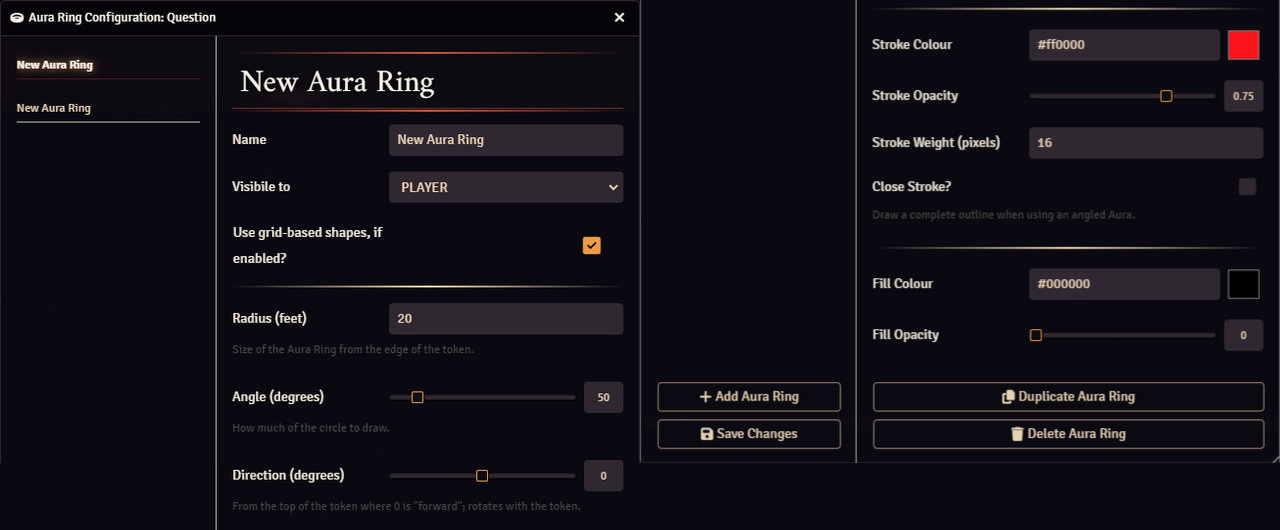
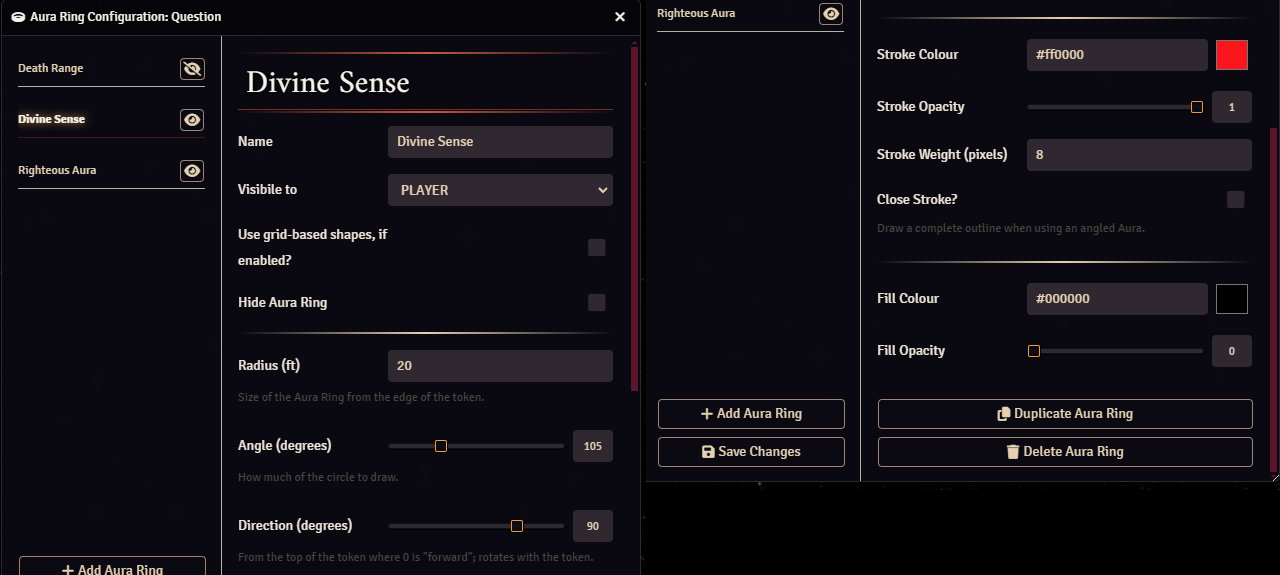
Added show/hide aura button

diff --git a/AuraRingFormApplication.js b/AuraRingFormApplication.js
@@ -12,10 +12,11 @@ export class AuraRingFormApplication extends HandlebarsApplicationMixin(Applicat
             changeTab: AuraRingFormApplication.handleChangeTab,
             deleteAuraRing: AuraRingFormApplication.handleDeleteAuraRing,
             duplicateAuraRing: AuraRingFormApplication.handleDuplicateAuraRing,
+            toggleHide: AuraRingFormApplication.handleToggleHide,
         },
         form: {
             handler: AuraRingFormApplication.handleForm,
-            submitOnChange: false, // Could be useful for live updates?
+            submitOnChange: false,
             closeOnSubmit: true,
         },
         id: `${AuraRingFlags.namespace}-{id}`,
@@ -43,7 +44,7 @@ export class AuraRingFormApplication extends HandlebarsApplicationMixin(Applicat
 
     auraRings = [];
 
-    currentTab = null;
+    currentTab = 0;
 
     preview;
 
@@ -84,8 +85,14 @@ export class AuraRingFormApplication extends HandlebarsApplicationMixin(Applicat
         }
 
         const dataModels = [];
+
         for (const auraRing of auraRings) {
-            dataModels.push(new AuraRingDataModel(auraRing));
+            try {
+                dataModels.push(new AuraRingDataModel(auraRing));
+            } catch (error) {
+                console.error('A malformed Aura Ring was detected; removing.');
+                this.deleteAuraRing(auraRing.id);
+            }
         }
 
         return {
@@ -94,24 +101,27 @@ export class AuraRingFormApplication extends HandlebarsApplicationMixin(Applicat
     }
 
     // Handlers
-    static async handleAddAuraRing(event, target)
+    static async handleAddAuraRing()
     {
         this.addAuraRing();
     }
 
-    static async handleChangeTab(event, target)
+    static async handleChangeTab(event)
     {
-        this.changeTab(target.dataset.tab);
+        const auraId = parseInt(event.target.dataset.aura);
+        this.changeTab(auraId);
     }
 
-    static async handleDeleteAuraRing(event, target)
+    static async handleDeleteAuraRing(event)
     {
-        this.confirmDelete(target.dataset.aura);
+        const auraId = parseInt(event.target.dataset.aura);
+        this.confirmDelete(auraId);
     }
 
-    static async handleDuplicateAuraRing(event, target)
+    static async handleDuplicateAuraRing(event)
     {
-        this.duplicateAuraRing(target.dataset.aura);
+        const auraId = parseInt(event.target.dataset.aura);
+        this.duplicateAuraRing(auraId);
     }
 
     static async handleForm(event, form, formData)
@@ -124,7 +134,14 @@ export class AuraRingFormApplication extends HandlebarsApplicationMixin(Applicat
 
     static async handleRenameAuraRing(event)
     {
-        this.renameAuraRing(event.target.dataset.aura, event.target.value);
+        const auraId = parseInt(event.target.dataset.aura);
+        this.renameAuraRing(auraId, event.target.value);
+    }
+
+    static async handleToggleHide(event)
+    {
+        const auraId = parseInt(event.target.dataset.aura);
+        this.toggleHideAuraRing(auraId);
     }
 
     // Aura Rings
@@ -155,7 +172,7 @@ export class AuraRingFormApplication extends HandlebarsApplicationMixin(Applicat
     duplicateAuraRing(id)
     {
         const source = this.getAuraRing(id);
-        const clone = deepClone(source);
+        const clone = foundry.utils.deepClone(source);
 
         clone.id = AuraRingFlags.nextAvailableId(this.auraRings);
         clone.name = `Copy of ${source.name}`;
@@ -194,7 +211,7 @@ export class AuraRingFormApplication extends HandlebarsApplicationMixin(Applicat
         this.render();
     }
 
-    sortAuraRings (first, second) {
+    sortAuraRings(first, second) {
         if (first.name < second.name) {
             return -1;
         }
@@ -204,6 +221,13 @@ export class AuraRingFormApplication extends HandlebarsApplicationMixin(Applicat
         }
 
         return 0;
+    }
+
+    toggleHideAuraRing(id)
+    {
+        const index = this.getAuraRingIndex(id);
+        this.auraRings[index].hide = !this.auraRings[index].hide;
+        this.render();
     }
 
     // Dialogs
@@ -250,14 +274,23 @@ export class AuraRingFormApplication extends HandlebarsApplicationMixin(Applicat
 
     changeTab(target)
     {
+        const articles = document.querySelectorAll('[data-group="auraRingArticles"]');
         const tabs = document.querySelectorAll('[data-group="auraRingTabs"]');
+        
+        const targetId = `${target}`;
 
-        if (typeof target !== 'string') {
-            target = `${target}`;
+        for (const article of articles) {
+            if (article.dataset.aura === targetId) {
+                article.classList.add('active');
+                article.classList.remove('hidden');
+            } else {
+                article.classList.remove('active');
+                article.classList.add('hidden');
+            }
         }
 
         for (const tab of tabs) {
-            tab.dataset.tab === target
+            tab.dataset.aura === targetId
                 ? tab.classList.add('active')
                 : tab.classList.remove('active');
         }
@@ -272,7 +305,9 @@ export class AuraRingFormApplication extends HandlebarsApplicationMixin(Applicat
 
         for (const field in formData.object) {
             const index = field.indexOf('_');
-            const id = field.slice(0, index);
+            const id = parseInt(
+                field.slice(0, index),
+            );
             const key = field.slice(index + 1);
             const value = formData.object[field];
 

diff --git a/AuraRingFlags.js b/AuraRingFlags.js
@@ -7,27 +7,27 @@ export class AuraRingFlags
     static namespace = 'token-aura-ring';
 
     // Flags
-    static getAuraRings(simpleTokenDocument)
+    static getAuraRings(tokenDocument)
     {
-        if (AuraRingFlags.hasAuraRings(simpleTokenDocument) === false) {
-            AuraRingFlags.setAuraRings(simpleTokenDocument, []);
+        if (AuraRingFlags.hasAuraRings(tokenDocument) === false) {
+            AuraRingFlags.setAuraRings(tokenDocument, []);
         }
 
-        return simpleTokenDocument.getFlag(AuraRingFlags.namespace, AuraRingFlags.auraRingsKey);
+        return tokenDocument.getFlag(AuraRingFlags.namespace, AuraRingFlags.auraRingsKey);
     }
 
-    static hasAuraRings(simpleTokenDocument)
+    static hasAuraRings(tokenDocument)
     {
-        if (simpleTokenDocument.flags.hasOwnProperty(AuraRingFlags.namespace) === false) {
+        if (tokenDocument.flags.hasOwnProperty(AuraRingFlags.namespace) === false) {
             return false;
         }
 
-        return simpleTokenDocument.flags[AuraRingFlags.namespace].hasOwnProperty(AuraRingFlags.auraRingsKey) === true;
+        return tokenDocument.flags[AuraRingFlags.namespace].hasOwnProperty(AuraRingFlags.auraRingsKey) === true;
     }
 
-    static setAuraRings(simpleTokenDocument, auraRings)
+    static setAuraRings(tokenDocument, auraRings)
     {
-        simpleTokenDocument.setFlag(AuraRingFlags.namespace, AuraRingFlags.auraRingsKey, auraRings);
+        tokenDocument.setFlag(AuraRingFlags.namespace, AuraRingFlags.auraRingsKey, auraRings);
     }
 
     // Auras
@@ -41,7 +41,7 @@ export class AuraRingFlags
         }
 
         while (potentialId < 100) {
-            if (usedIds.includes(`${potentialId}`) === false) {
+            if (usedIds.includes(potentialId) === false) {
                 return potentialId;
             }
 
@@ -50,20 +50,20 @@ export class AuraRingFlags
     }
 
     // Migration
-    static migrateData(simpleTokenDocument)
+    static migrateData(tokenDocument)
     {
-        if (AuraRingFlags.needsMigration(simpleTokenDocument) === false) {
+        if (AuraRingFlags.needsMigration(tokenDocument) === false) {
            return;
         }
 
-        const auraRings = AuraRingFlags.getAuraRings(simpleTokenDocument);
+        const auraRings = AuraRingFlags.getAuraRings(tokenDocument);
 
-        for (const key in simpleTokenDocument.flags[AuraRingFlags.namespace]) {
+        for (const key in tokenDocument.flags[AuraRingFlags.namespace]) {
             if (key === AuraRingFlags.auraRingsKey) {
                 continue;
             }
 
-            const oldAuraRing = simpleTokenDocument.getFlag(AuraRingFlags.namespace, key);
+            const oldAuraRing = tokenDocument.getFlag(AuraRingFlags.namespace, key);
             const newAuraRing = AuraRingFlags.migrateFromV1(
                 oldAuraRing,
                 AuraRingFlags.nextAvailableId(auraRings),
@@ -71,17 +71,17 @@ export class AuraRingFlags
             );
 
             auraRings.push(newAuraRing);
-            simpleTokenDocument.unsetFlag(AuraRingFlags.namespace, key);
+            tokenDocument.unsetFlag(AuraRingFlags.namespace, key);
         }
 
-        AuraRingFlags.setAuraRings(simpleTokenDocument, auraRings);
+        AuraRingFlags.setAuraRings(tokenDocument, auraRings);
     }
 
     static migrateFromV1(oldAuraRing, newId, name)
     {
         const newAuraRing = AuraRingDataModel.defaultSettings();
 
-        newAuraRing.id = `${newId}`;
+        newAuraRing.id = newId;
         newAuraRing.name = name;
 
         AuraRingFlags.migrateField(oldAuraRing, 'angle', newAuraRing, 'angle');
@@ -95,13 +95,13 @@ export class AuraRingFlags
         return newAuraRing;
     }
 
-    static needsMigration(simpleTokenDocument)
+    static needsMigration(tokenDocument)
     {
-        if (simpleTokenDocument.flags.hasOwnProperty(AuraRingFlags.namespace) === false) {
+        if (tokenDocument.flags.hasOwnProperty(AuraRingFlags.namespace) === false) {
             return false;
         }
 
-        for (const key in simpleTokenDocument.flags[AuraRingFlags.namespace]) {
+        for (const key in tokenDocument.flags[AuraRingFlags.namespace]) {
             if (key !== AuraRingFlags.auraRingsKey) {
                 return true;
             }

diff --git a/AuraRingDataModel.js b/AuraRingDataModel.js
@@ -8,6 +8,7 @@ export class AuraRingDataModel extends foundry.abstract.DataModel
             'name',
             'visibility',
             'use_grid_shapes',
+            'hide',
         ],
         [
             'radius',
@@ -35,6 +36,7 @@ export class AuraRingDataModel extends foundry.abstract.DataModel
             direction: AuraRingDataModel.directionField(defaults.direction),
             fill_colour: AuraRingDataModel.fillColourField(defaults.fill_colour),
             fill_opacity: AuraRingDataModel.fillOpacityField(defaults.fill_opacity),
+            hide: AuraRingDataModel.hideField(defaults.hide),
             id: AuraRingDataModel.idField(defaults.id),
             name: AuraRingDataModel.nameField(defaults.name),
             radius: AuraRingDataModel.radiusField(defaults.radius),
@@ -54,6 +56,7 @@ export class AuraRingDataModel extends foundry.abstract.DataModel
             direction: 0,
             fill_colour: '#000000',
             fill_opacity: 0,
+            hide: false,
             id: 0,
             name: 'Aura',
             radius: 20,
@@ -210,6 +213,19 @@ export class AuraRingDataModel extends foundry.abstract.DataModel
                 0,
                 1,
                 false,
+            ),
+        );
+    }
+
+    static hideField(initial)
+    {
+        return AuraRingField.booleanField(
+            AuraRingField.dataFieldOptions(
+                'Hide Aura Ring',
+                initial,
+            ),
+            AuraRingField.dataFieldContext(
+                'hide',
             ),
         );
     }

diff --git a/settings.html b/settings.html
@@ -8,12 +8,24 @@
     >
         <nav class="tabs">
             {{#each auraRings as |auraRing|}}
-                <a
+                <div
                     class="item category-tab category-all"
-                    data-action="changeTab"
                     data-group="auraRingTabs"
-                    data-tab="{{auraRing.id}}"
-                >{{auraRing.name}}</a>
+                    data-aura="{{auraRing.id}}"
+                >
+                    <a
+                        data-action="changeTab"
+                        data-aura="{{auraRing.id}}"
+                    >{{auraRing.name}}</a>
+
+                    <button
+                        class="fas {{#if auraRing.hide}}fa-eye-slash{{else}}fa-eye{{/if}}"
+                        data-action="toggleHide"
+                        data-aura="{{auraRing.id}}"
+                        style="flex: 0; padding: 3px;"
+                        type="button"
+                    />
+                </div>
             {{else}}
                 <p>No Aura Rings have been added.</p>
                 <p>Press the "Add Aura Ring" button below to create one.</p>
@@ -42,8 +54,8 @@
         {{#each auraRings as |auraRing|}}
             <article
                 class="tab category flexcol flex1"
-                data-group="auraRingTabs"
-                data-tab="{{auraRing.id}}"
+                data-group="auraRingArticles"
+                data-aura="{{auraRing.id}}"
                 style="justify-content: space-between;"
             >
                 {{ formGroup auraRing }}

diff --git a/AuraRingApi.js b/AuraRingApi.js
@@ -4,12 +4,14 @@ import { AuraRingFlags } from "./AuraRingFlags.js";
 export class AuraRingApi
 {
     /**
+     * TODO Make an actual class
      * A Token Aura Ring
      * @typedef  {Object}   AuraRing
      * @property {number}   angle               How wide the Aura Ring should be, from 5 to 360 degrees
      * @property {number}   direction           Which way the Aura Ring should face, from -180 to 180 degrees
      * @property {string}   fill_colour         The fill colour in hex
      * @property {number}   fill_opacity        The fill opacity as a fraction between 0 and 1
+     * @property {boolean}  hide                Whether the Aura Ring should be shown
      * @property {number}   id                  The unique numeric identifier of the Aura Ring
      * @property {string}   name                The display name of the Aura Ring
      * @property {number}   radius              The radius of the Aura Ring, from 0

diff --git a/AuraRingCanvas.js b/AuraRingCanvas.js
@@ -244,6 +244,10 @@ export class AuraRingCanvas
     
     shouldRender(auraRing)
     {
+        if (auraRing.hide === true) {
+            return false;
+        }
+
         if (auraRing.radius === 0) {
             return false;
         }

diff --git a/README.md b/README.md
@@ -60,6 +60,8 @@ Press the "Delete Aura Ring" button to remove the currently selected aura ring.
 
 You can control which user roles can see an aura ring using the "Visible to" setting.
 
+You can also quickly show and hide an Aura Ring by pressing the "Eye" button or checking the "Hire Aura Ring" option.
+
 ### Angled aura rings
 
 You can adjust the "Direction" and "Angle" settings to create arcs instead of circles.
@@ -112,7 +114,7 @@ Macro developers can control Aura Rings using the `TokenAuraRing` global variabl
 | blank     |                                   | AuraRing         | Get an unsaved empty Aura Ring without an ID |
 | delete    | TokenDocument, id                 |                  | Remove an Aura Ring |
 | deleteAll | TokenDocument                     |                  | Remove all Aura Rings |
-| get       | TokenDocument, term, field = 'id' | AuraRing\|false   | Retrieve a specific Aura Ring by a field, ID by default |
+| get       | TokenDocument, term, field = 'id' | AuraRing\|false  | Retrieve a specific Aura Ring by a field, ID by default |
 | index     | TokenDocument                     | Object{id: name} | Retrieve a list of Aura Ring names keyed by their ID |
 | new       | TokenDocument                     | AuraRing         | Create a new Aura Ring from the default settings |
 | set       | TokenDocument, AuraRing           |                  | Overwrite an Aura Ring with new settings |
